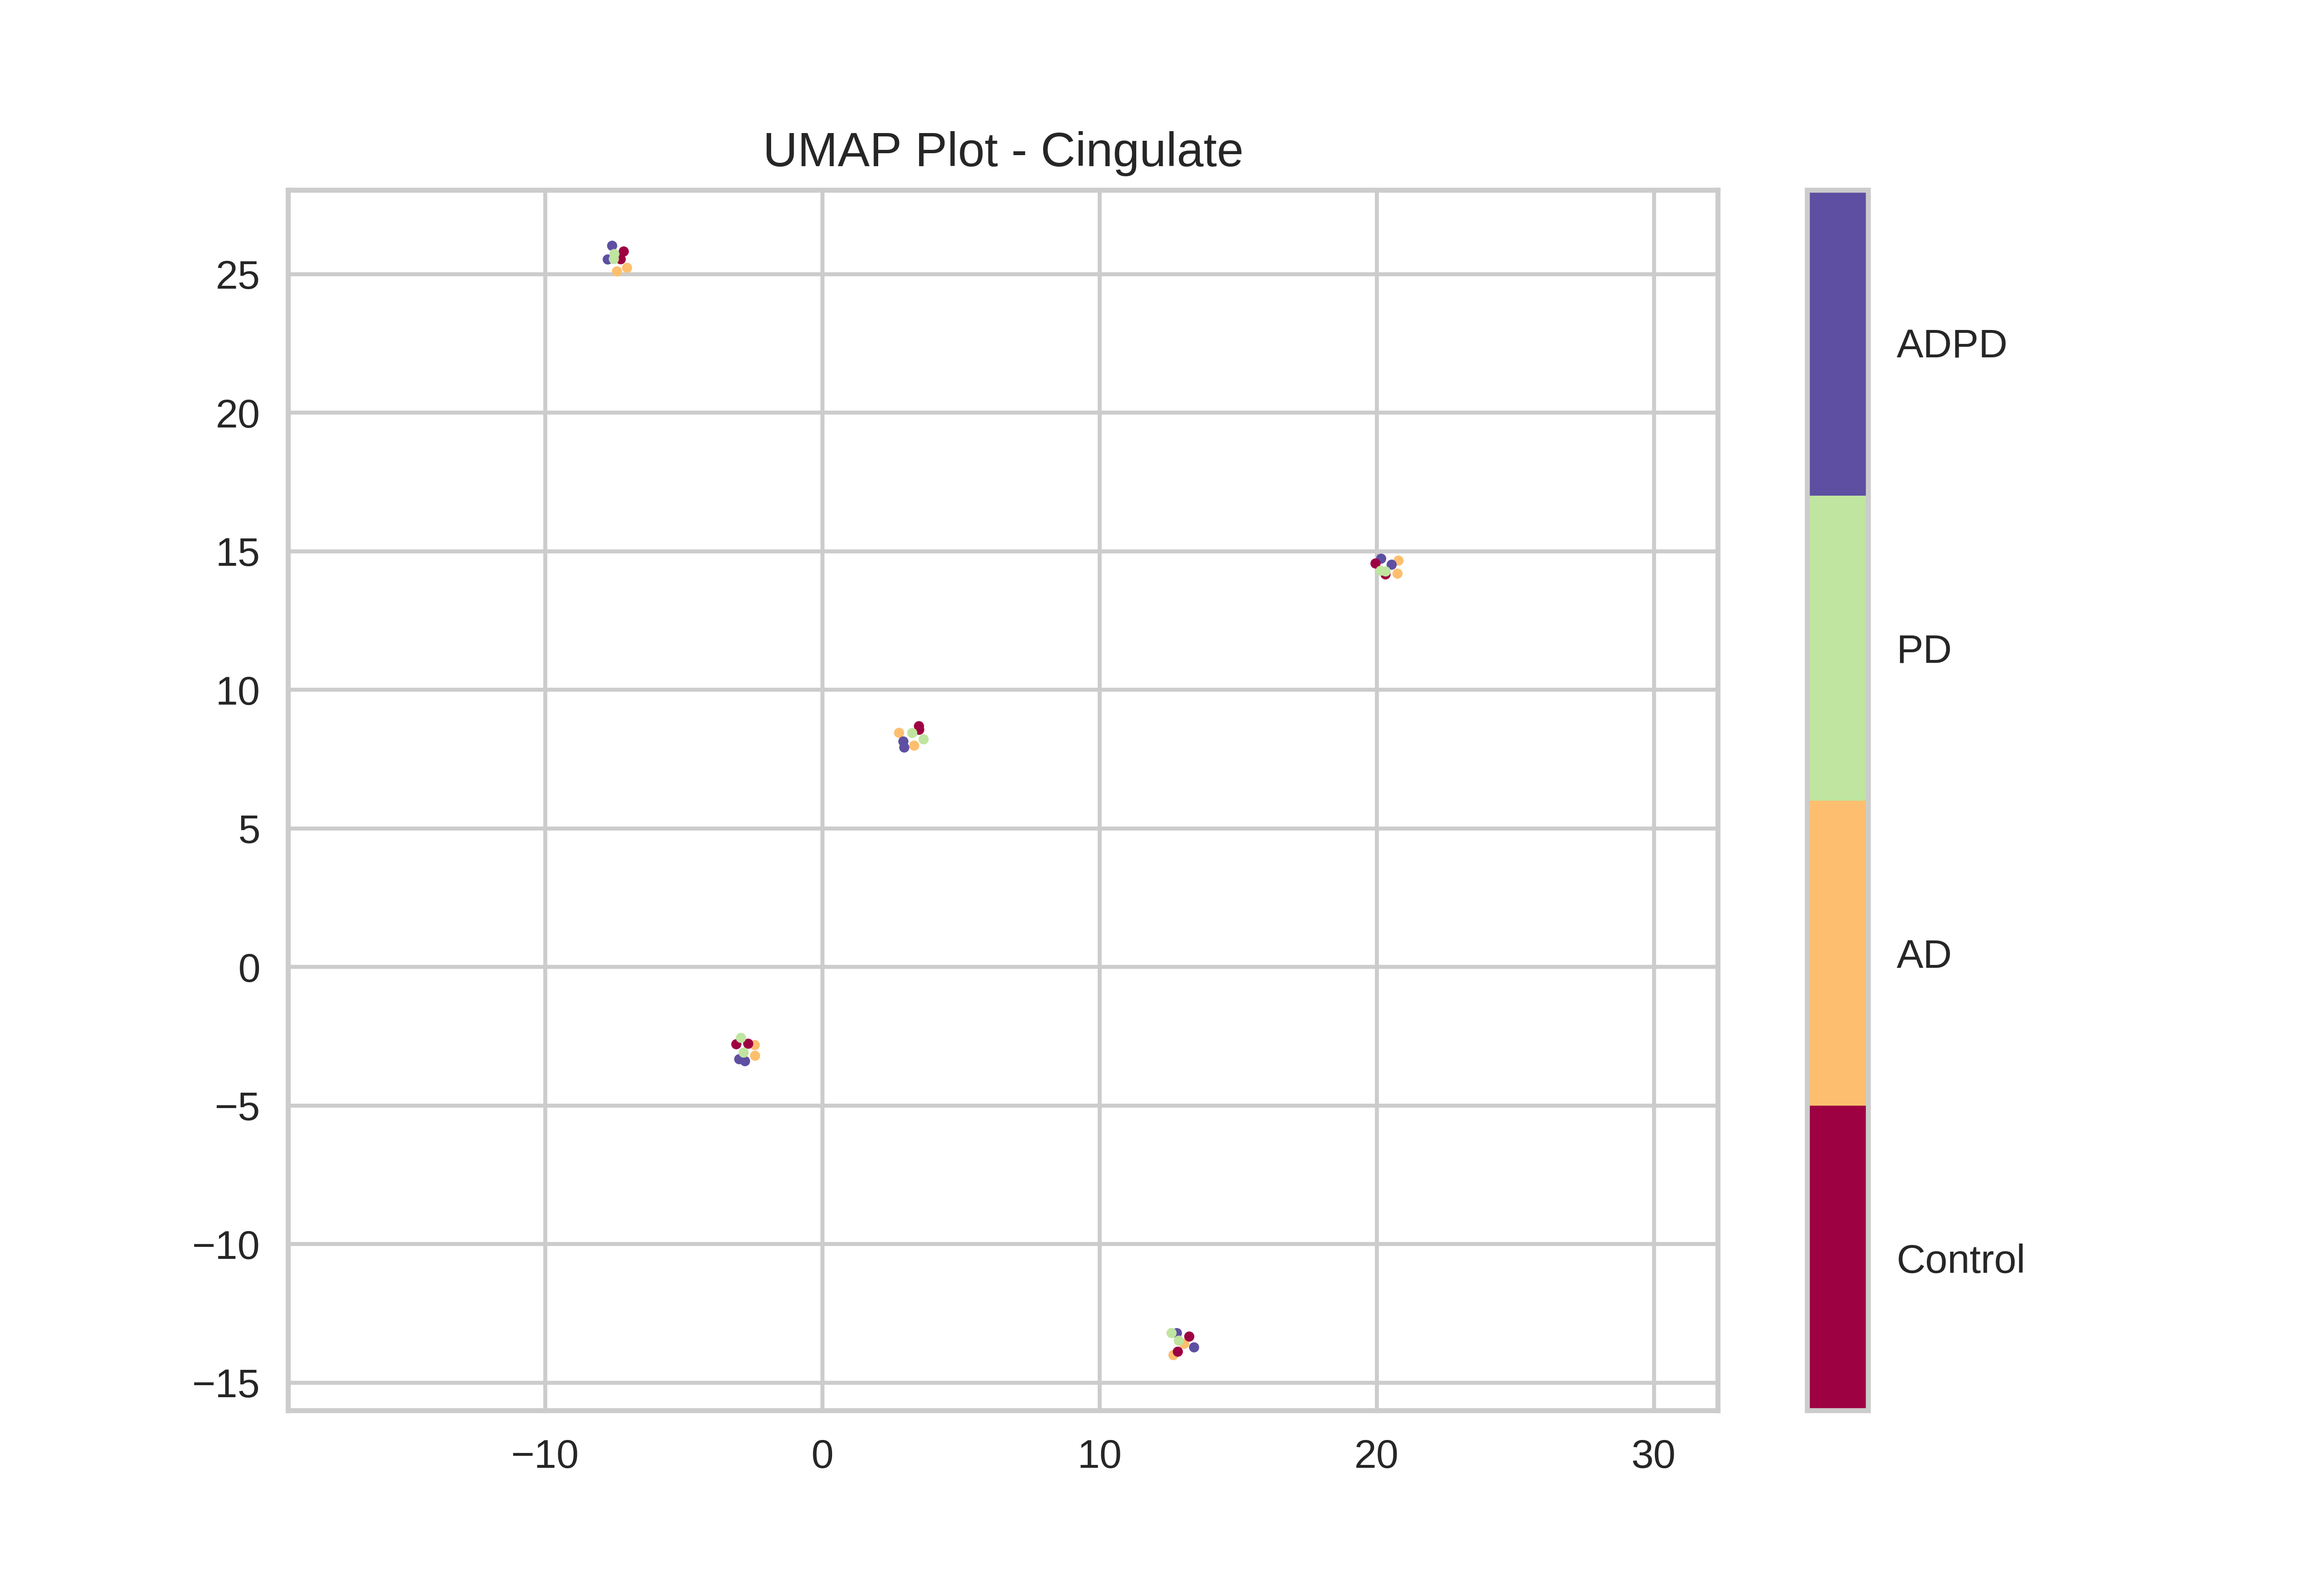
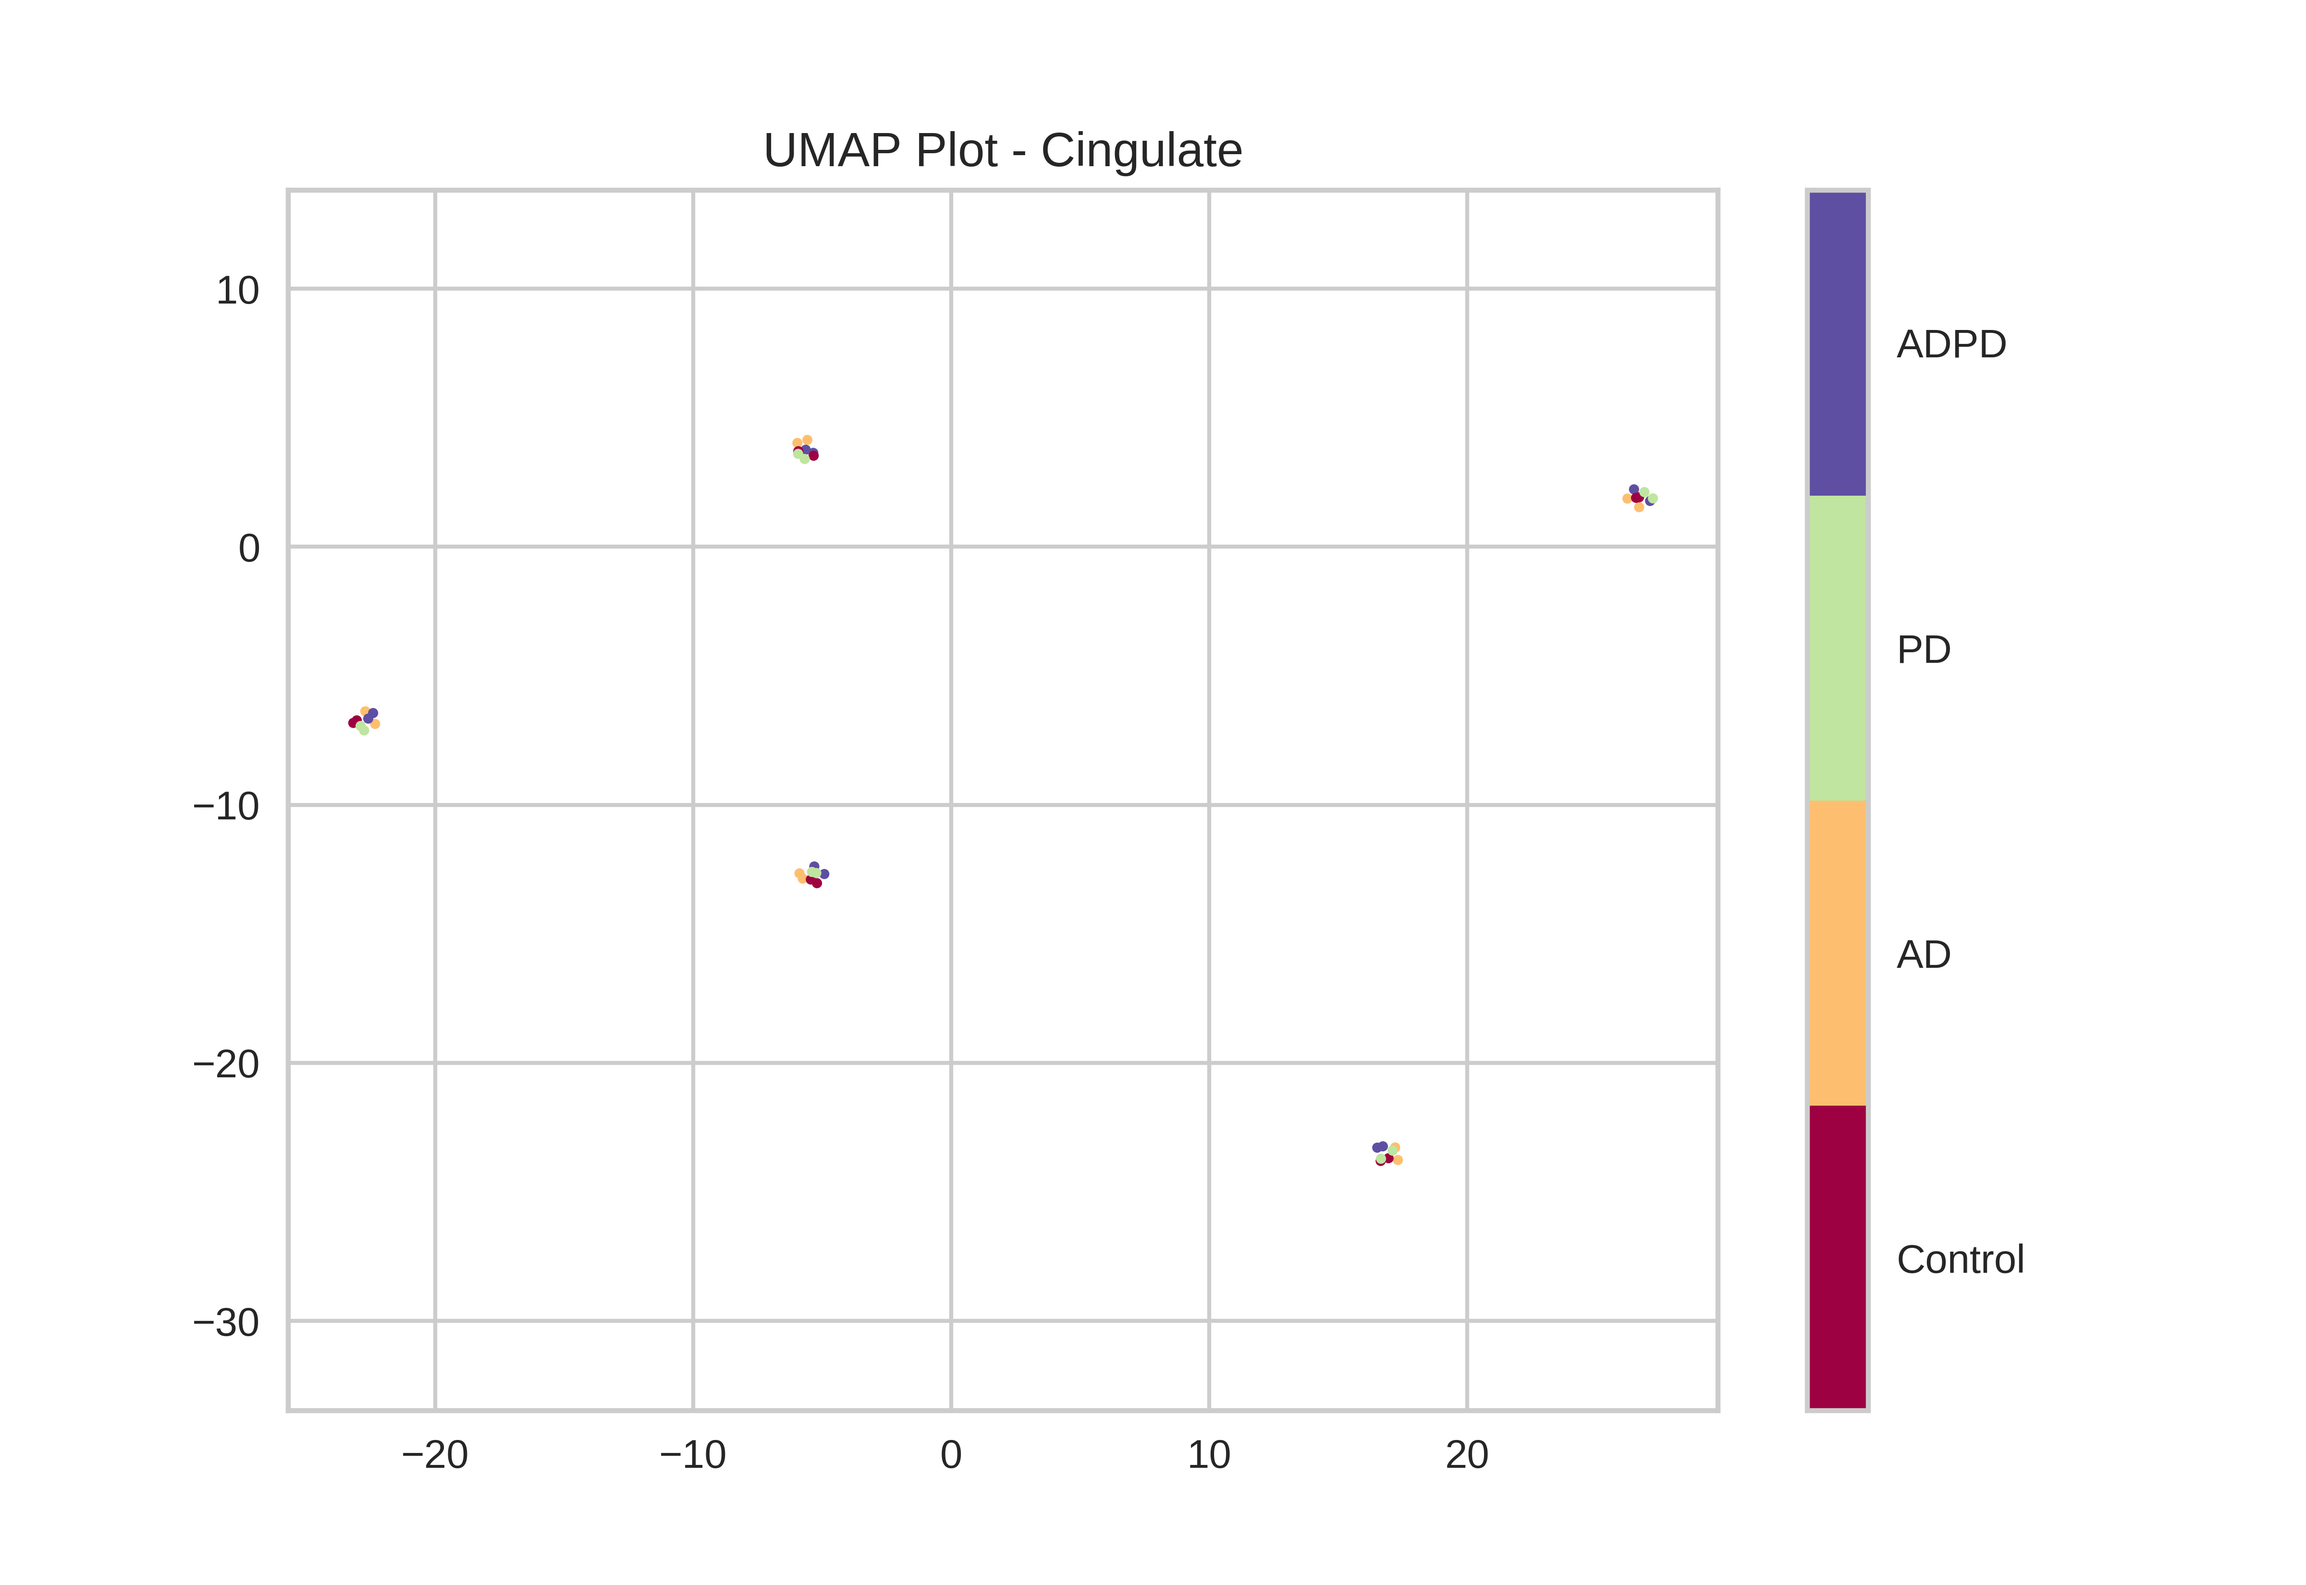
Added vertical and horizontal lines to volcano method

diff --git a/src/data/CleanFrame.py b/src/data/CleanFrame.py
@@ -3,6 +3,7 @@ from matplotlib.colors import LinearSegmentedColormap
 import numpy as np
 import pandas as pd
 
+
 class CleanFrame(pd.core.frame.DataFrame):
     """Sub-classed DataFrame with expanded method for cleaning
     
@@ -131,9 +132,21 @@ class CleanFrame(pd.core.frame.DataFrame):
         else:
             return new_data
 
-    def volcano(self, x, y, is_log=True, fold_cut=0.585, q_cut=1.301, title='Volcano Plot', title_size=12, label_size=8):
+    def volcano(
+        self,
+        x,
+        y,
+        is_log=True,
+        fold_cut=0.585,
+        q_cut=1.301,
+        title="Volcano Plot",
+        title_size=12,
+        label_size=8,
+        show=True,
+        save=False,
+        path="reports/figures/volcano.png",
+    ):
         """Makes a volcano plot of the data
-        Title the plot using self.name
 
         Inputs
         ------
@@ -152,25 +165,32 @@ class CleanFrame(pd.core.frame.DataFrame):
             Default is q_score less than 0.05
         title: str, Optional
             Plot title
-        title_size: numeric
+        title_size: numeric, Optional
             Font size, in pts, to use for Figure title
-        label_size: numeric
+        label_size: numeric, Optional
             Font size, in pts, to use for axes title
-
+        show: bool, Optional
+            If true, display the plot
+        save: bool, Optional
+            If true, save the plot
+        path: str, Optional
+            Where to save the plot, if save == True
+        
         Outputs
         -------
         """
         # Type check inputs
-        for i in (x, y, title):
+        for i in (x, y, title, path):
             if not isinstance(i, str):
                 raise ValueError(f"{i} must be a str")
-        if not isinstance(is_log, bool):
-            raise ValueError("is_log must be a bool")
+        for i in (is_log, show, save):
+            if not isinstance(i, bool):
+                raise ValueError(f"{i} must be a bool")
         for var in (title_size, label_size):
             try:
                 float(var)
             except (ValueError, TypeError) as err:
-                print(f'{var} needs to be numeric')
+                print(f"{var} needs to be numeric")
                 raise
 
         # Log, if necessary
@@ -187,40 +207,87 @@ class CleanFrame(pd.core.frame.DataFrame):
         )
 
         # Establish colors
-        conditions = [
-            (y >= q_cut) & (x >= fold_cut),
-            (y >= q_cut) & (x <= -fold_cut),
-        ]
+        conditions = [(y >= q_cut) & (x >= fold_cut), (y >= q_cut) & (x <= -fold_cut)]
         choices = [2, 0]
         colors = np.select(conditions, choices, default=1)
 
         # Plot data
-        plt.scatter(x, y, c=colors, cmap=cmap, s=1)
+        plt.scatter(x, y, c=colors, cmap=cmap, s=2, alpha=0.7)
+        plt.axvline(fold_cut, linestyle="--", color="gray", linewidth=1)
+        plt.axvline(-fold_cut, linestyle="--", color="gray", linewidth=1)
+        plt.axhline(q_cut, linestyle="--", color="gray", linewidth=1)
 
-        # Plot Basic
-        plt.title(title, fontdict={'fontsize': title_size})
+        # Plot settings
+        plt.title(title, fontdict={"fontsize": title_size})
+        plt.gca().set_aspect("equal", "datalim")
+        cbar = plt.colorbar(
+            boundaries=np.arange(4) - 0.5, ticks=np.arange(3), shrink=0.33
+        )
+        cbar.ax.set_yticklabels(
+            ["Sig. Under", "N.S.", "Sig. Over"], fontdict={"fontsize": label_size}
+        )
+        plt.xlabel("log2(fold_change)", fontdict={"fontsize": label_size})
+        plt.ylabel("-log10(q_score)", fontdict={"fontsize": label_size})
+        plt.savefig(path, dpi=600)
+
+    def umap(self, X, title="UMAP Plot", title_size=12, label_size=8, **kwargs):
+        """Makes a UMAP plot of the data
+
+        Inputs
+        ------
+        X: iterable
+            List of columns to be used as features
+        title: str, Optional
+            Plot title
+        title_size: numeric, Optional
+            Font size, in pts, to use for Figure title
+        label_size: numeric, Otional
+            Font size, in pts, to use for axes title
+        kwargs:
+            Additional parameters to be passed to umap.UMAP()
+
+        Outputs
+        -------
+        """
+        # Type check inputs
+        for i in (x, y, title):
+            if not isinstance(i, str):
+                raise ValueError(f"{i} must be a str")
+        if not isinstance(is_log, bool):
+            raise ValueError("is_log must be a bool")
+        for var in (title_size, label_size):
+            try:
+                float(var)
+            except (ValueError, TypeError) as err:
+                print(f"{var} needs to be numeric")
+                raise
+
+        # Log, if necessary
+        if not is_log:
+            x = np.log2(self[x])
+            y = -np.log10(self[y])
+        else:
+            x = self[x]
+            y = self[y]
+
+        # Create red, black green custom color map
+        cmap = LinearSegmentedColormap.from_list(
+            "Volcano", [(1, 0, 0), (0, 0, 0), (0, 1, 0)], N=3
+        )
+
+        # Establish colors
+        conditions = [(y >= q_cut) & (x >= fold_cut), (y >= q_cut) & (x <= -fold_cut)]
+        choices = [2, 0]
+        colors = np.select(conditions, choices, default=1)
+
+        # Plot data
+        plt.scatter(x, y, c=colors, cmap=cmap, s=2, alpha=0.7)
+
+        # Plot settings
+        plt.title(title, fontdict={"fontsize": title_size})
         plt.gca().set_aspect("equal", "datalim")
         cbar = plt.colorbar(boundaries=np.arange(4) - 0.5, ticks=np.arange(3))
         cbar.ax.set_yticklabels(["Sig. Under", "N.S.", "Sig. Over"])
-        plt.xlabel('log2(fold_change)', fontdict={'fontsize': label_size})
-        plt.ylabel('-log10(q_score)', fontdict={'fontsize': label_size})
-
-
-# # Set color column and plot
-# for df in (frontal_volc, cingulate_volc):
-#     for items in zip(cols_data, cols_color, ax):
-#         # Creates color column
-#         # Creates volcano plots
-#         items[2].scatter(df[items[0]], df["-log10_q"], c=df[items[1]], cmap=cmap, s=1)
-#         items[2].set_title(items[0].split("_")[1].upper(), fontsize=8)
-#         items[2].set_xbound(lower=-2.1, upper=5.1)
-#         items[2].set_xticks(np.arange(-2, 5.1, 1), minor=False)
-#         items[2].set_xticks(np.arange(-2, 5.1, 0.25), minor=True)
-#         items[2].set_xticklabels([-2, -1, 0, 1, 2, 3, 4, 5], fontsize=4)
-#         items[2].set_ybound(lower=0, upper=6.1)
-#         items[2].set_yticks(np.arange(0, 6.1, 1), minor=False)
-#         items[2].set_yticks(np.arange(0, 6.1, 0.25), minor=True)
-#         items[2].set_yticklabels([0, 1, 2, 3, 4, 5, 6], fontsize=4)
-#     plt.savefig(f"reports/figures/{df.name}.png", dpi=600)
-#     plt.close()
-# print("Volcano Plots Made!")
+        plt.xlabel("log2(fold_change)", fontdict={"fontsize": label_size})
+        plt.ylabel("-log10(q_score)", fontdict={"fontsize": label_size})
+        plt.show()

diff --git a/src/visualization/pre_visualize.py b/src/visualization/pre_visualize.py
@@ -20,21 +20,23 @@ import pandas as pd
 from matplotlib.colors import LinearSegmentedColormap
 import src.data.CleanFrame as cf
 
+
 def prep_volcano(df):
     """Prep data for volcano plots
 
     Cleans off unnecessary columns information then aggregates by means
     """
     df.columns = df.columns.droplevel(0)
-    df.columns = df.columns.str.rstrip('12')
+    df.columns = df.columns.str.rstrip("12")
     columns = df.columns.unique()
     for col in columns:
-        df[f'mean_{col}'] = df[col].mean(axis=1)
+        df[f"mean_{col}"] = df[col].mean(axis=1)
     df = df.drop(columns=columns)
-    df['mean_q_score'] = df['mean_q_score'].replace(0, 0.000001)
+    df["mean_q_score"] = df["mean_q_score"].replace(0, 0.000001)
     return df
 
-if __name__ == '__main__':
+
+if __name__ == "__main__":
 
     # Read in the data
     frontal = cf.CleanFrame(pd.read_pickle("data/interim/frontal_full.pkl"))
@@ -49,9 +51,16 @@ if __name__ == '__main__':
     pd.to_pickle(cingulate_volc, "data/interim/cingulate_volc.pkl")
 
     # Plot data
-    data = ['mean_ad', 'mean_pd', 'mean_adpd']
-    for df in zip((frontal_volc, cingulate_volc), ('Frontal', 'Cingulate')):
-        for col in ('mean_ad', 'mean_pd', 'mean_adpd'):
-            df[0].volcano(col, 'mean_q_score', is_log=False, title=f'{df[1]} {col}')
-            plt.savefig(f"reports/figures/{df[1]}_{col}.png", dpi=600)
+    data = ["mean_ad", "mean_pd", "mean_adpd"]
+    for data in zip((frontal_volc, cingulate_volc), ("Frontal", "Cingulate")):
+        for col in ("mean_ad", "mean_pd", "mean_adpd"):
+            data[0].volcano(
+                col,
+                "mean_q_score",
+                is_log=False,
+                title=f"{data[1]} {col}",
+                show=False,
+                save=True,
+                path=f"reports/figures/{data[1]}_{col}.png",
+            )
             plt.close()

diff --git a/src/visualization/clusters.py b/src/visualization/clusters.py
@@ -9,7 +9,6 @@ import matplotlib.pyplot as plt
 import numpy as np
 import pandas as pd
 import umap
-from sklearn.decomposition import PCA
 from sklearn.pipeline import Pipeline
 from yellowbrick.text import TSNEVisualizer
 
@@ -38,10 +37,8 @@ pd.to_pickle(frontal_umap, "data/interim/frontal_umap.pkl")
 # Reducer for umap, reccomended to reduce to 50 with PCA, then UMAP
 X_frontal = frontal_umap.drop(columns=["label"])
 y_frontal = frontal_umap["label"]
-pipe_frontal = Pipeline(
-    [("PCA", PCA(n_components=40, random_state=1)), ("UMAP", umap.UMAP(random_state=1))]
-)
-embedding_frontal = pipe_frontal.fit_transform(X_frontal)
+reducer_frontal = umap.UMAP(random_state=1)
+embedding_frontal = reducer_frontal.fit_transform(X_frontal)
 
 # Prep for umap plot - cingulate
 cingulate_umap = (
